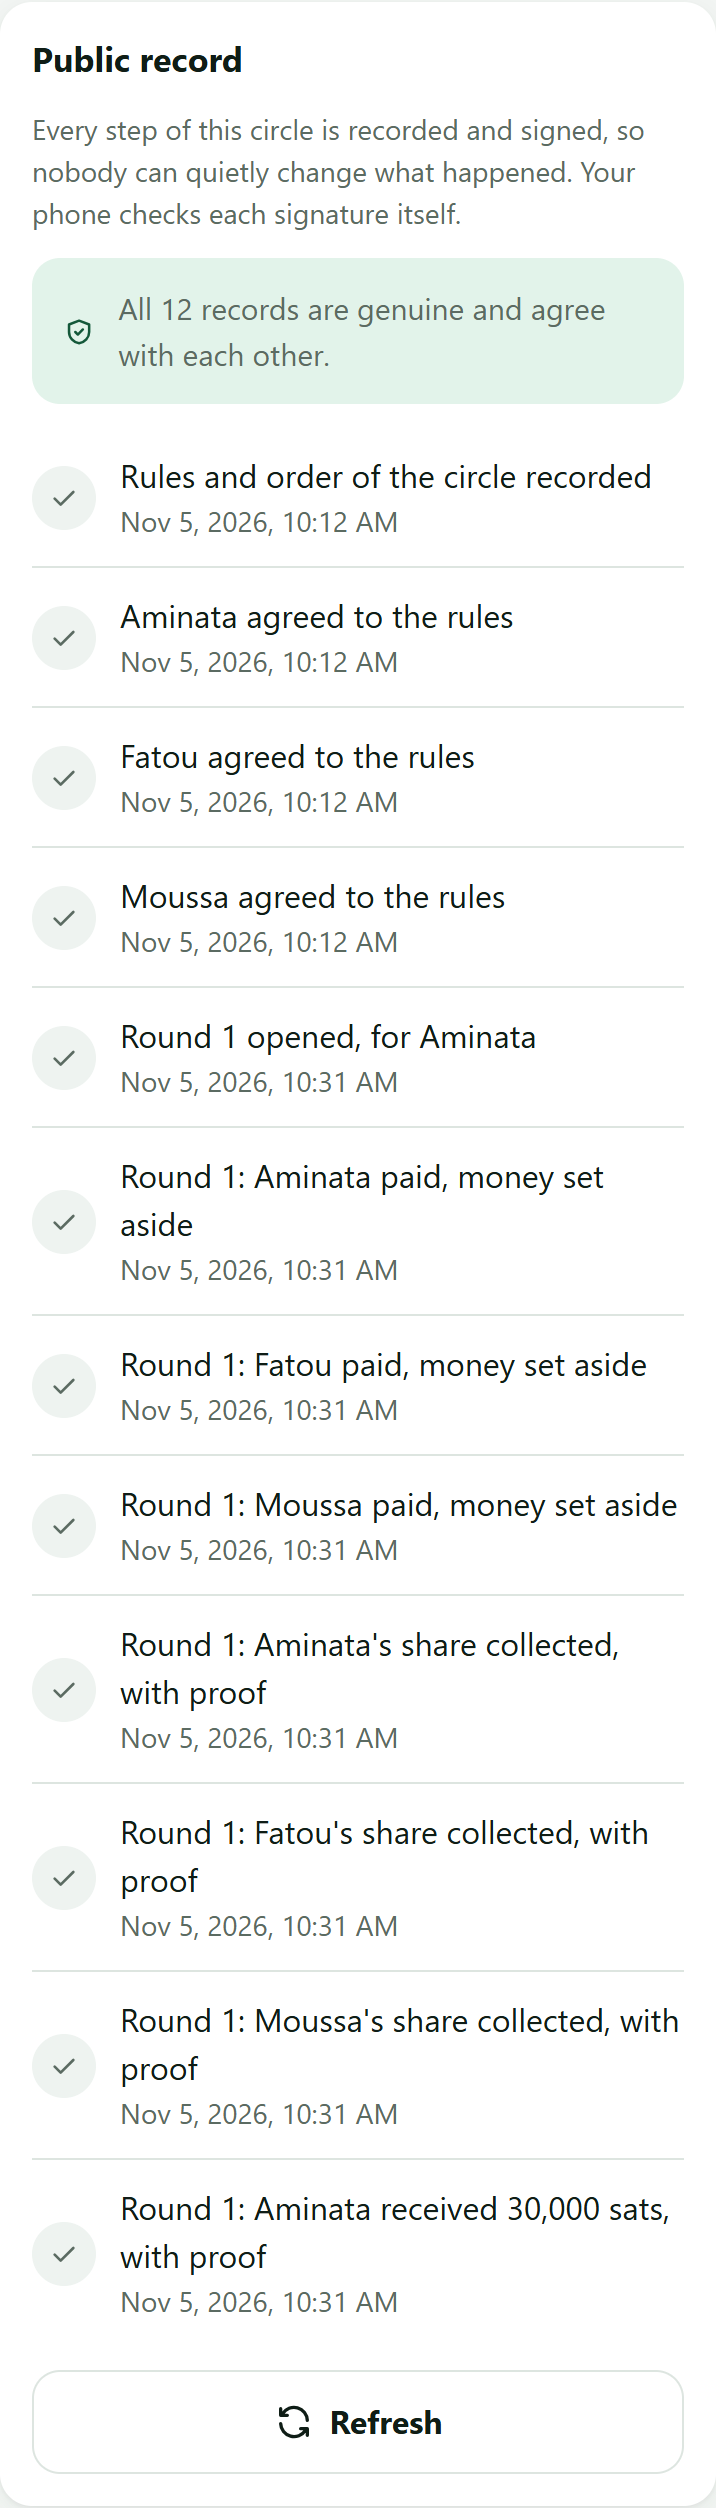
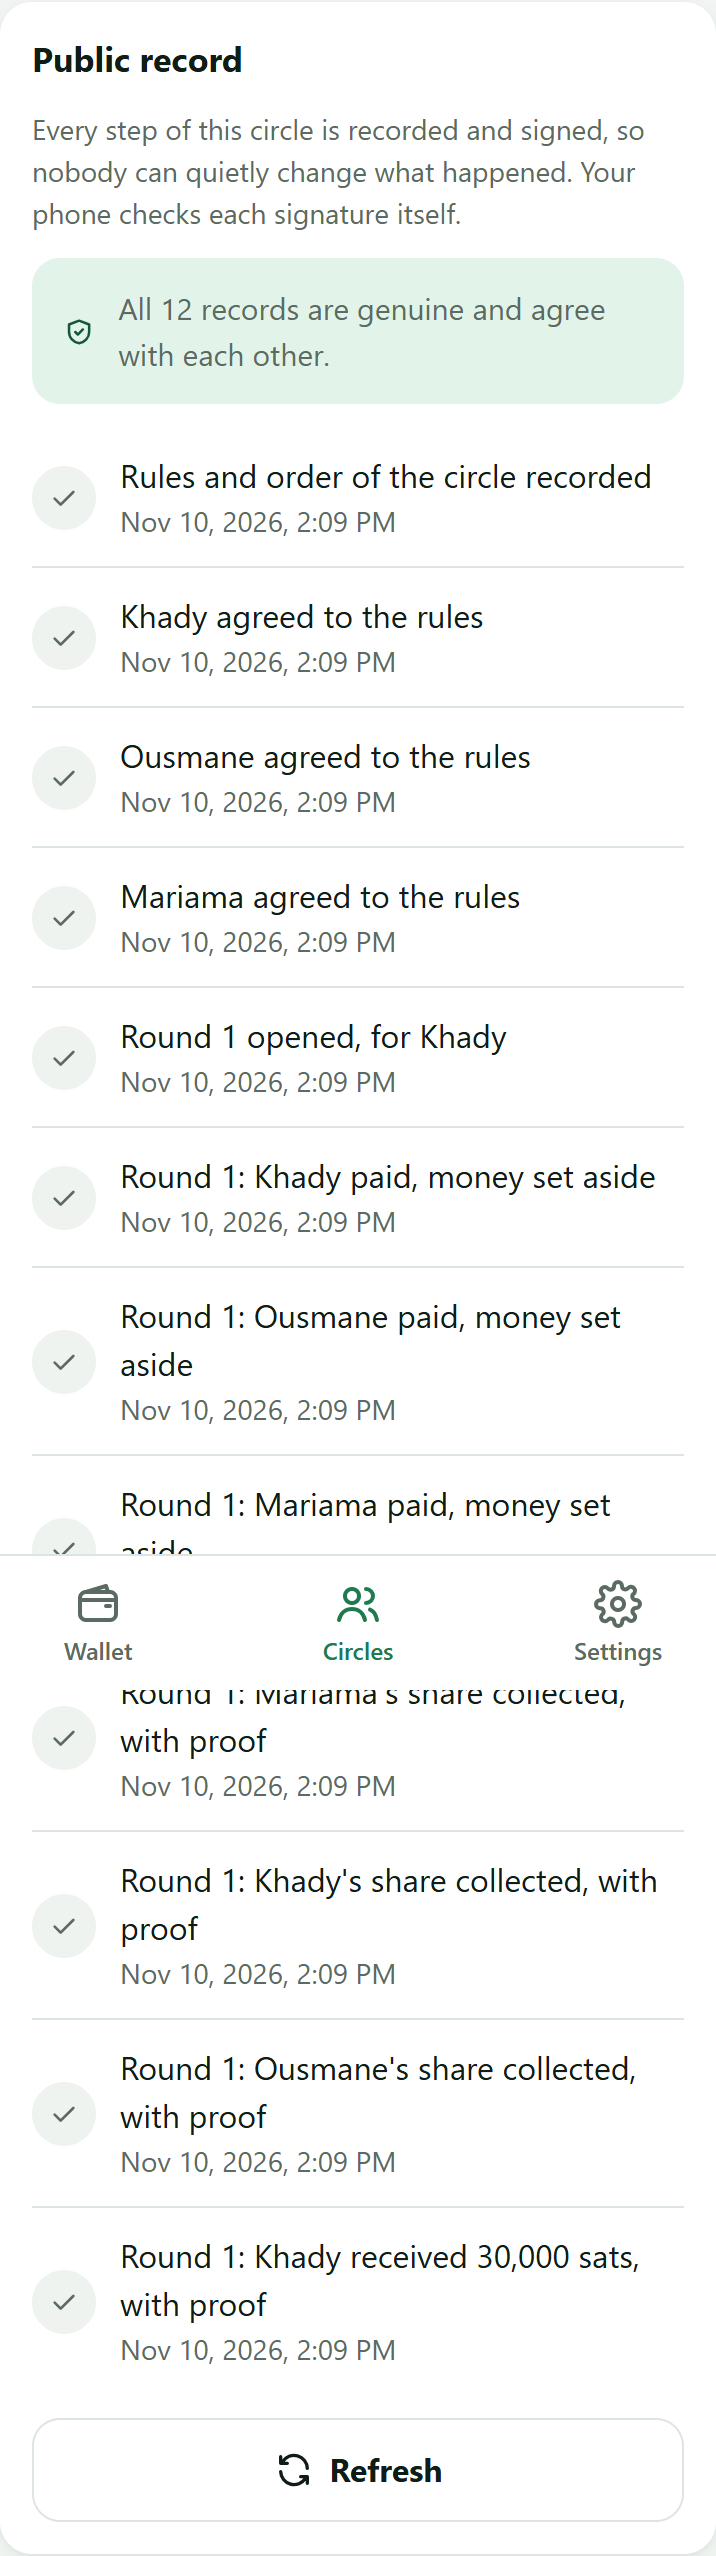
docs: rename demo people to Khady, Ousmane and Mariama at Sandaga market; add video script
Avoids overlapping with names used by other projects in the gallery.
Screenshots retaken with the new names and FCFA amounts.

diff --git a/scripts/demo.ts b/scripts/demo.ts
@@ -1,5 +1,5 @@
 /**
- * Demo state: three members (Aminata, Fatou, Moussa) with funded regtest
+ * Demo state: three members (Khady, Ousmane, Mariama) with funded regtest
  * wallets in an active circle, round 1 ready to start. Writes each member's
  * backup code (PIN 123456) to data/demo/ so demo phones can "Restore from a backup".
  *
@@ -24,7 +24,7 @@ import { WalletBindings } from "../apps/api/src/wallet/bindings.js";
 
 const DEMO_PIN = "123456";
 const JOIN_CODE = "DAKAR2";
-const MEMBERS = ["Aminata", "Fatou", "Moussa"] as const;
+const MEMBERS = ["Khady", "Ousmane", "Mariama"] as const;
 const CONTRIBUTION_SAT = 10_000;
 
 export async function createDemo(): Promise<void> {
@@ -61,7 +61,7 @@ export async function createDemo(): Promise<void> {
 
     store.createCircle({
       id: circleId,
-      name: "Marché HLM tontine",
+      name: "Sandaga market tontine",
       contributionSat: CONTRIBUTION_SAT,
       memberCount: MEMBERS.length,
       periodSeconds: 7 * 24 * 3600,
@@ -111,9 +111,9 @@ export async function createDemo(): Promise<void> {
 
     writeFileSync(
       join(demoDir, "README.txt"),
-      `Kola demo identities (regtest only). On each phone: "I already have a backup",\npaste one code, PIN ${DEMO_PIN}. Aminata is the organizer.\n`,
+      `Kola demo identities (regtest only). On each phone: "I already have a backup",\npaste one code, PIN ${DEMO_PIN}. Khady is the organizer.\n`,
     );
-    console.log(`Demo circle "Marché HLM tontine" (code ${JOIN_CODE}) is ready; round 1 can start.`);
+    console.log(`Demo circle "Sandaga market tontine" (code ${JOIN_CODE}) is ready; round 1 can start.`);
     printBackups(demoDir);
   } finally {
     db.close();

diff --git a/scripts/start.ts b/scripts/start.ts
@@ -92,9 +92,9 @@ console.log(`
   Kola is starting. Open:
 ${urls.map((u) => `    ${u}`).join("\n")}
 
-  Try it: tap "Aminata" on the welcome screen (demo PIN 123456),
-  open the Marché HLM circle and tap "Start round 1".
-  Switch to Fatou and Moussa in Settings to pay their shares.
+  Try it: tap "Khady" on the welcome screen (demo PIN 123456),
+  open the Sandaga market circle and tap "Start round 1".
+  Switch to Ousmane and Mariama in Settings to pay their shares.
 
   Ctrl+C stops the app. Before shutting down your computer,
   run "pnpm stack:stop" to stop the test network cleanly.

diff --git a/apps/api/src/routes/demo.ts b/apps/api/src/routes/demo.ts
@@ -5,9 +5,9 @@ import type { Env } from "../env.js";
 
 /** Same people, order and files as scripts/demo.ts. */
 const DEMO_PEOPLE = [
-  { nickname: "Aminata", role: "organizer" },
-  { nickname: "Fatou", role: "member" },
-  { nickname: "Moussa", role: "member" },
+  { nickname: "Khady", role: "organizer" },
+  { nickname: "Ousmane", role: "member" },
+  { nickname: "Mariama", role: "member" },
 ] as const;
 
 /**

diff --git a/docs/video-script.md b/docs/video-script.md
@@ -1,0 +1,110 @@
+# Kola · 3-minute demo video script
+
+Structure the judges asked for: **problem → solution → impact → next steps**.
+About 420 spoken words at a calm pace. Timings are targets; the demo parts can be sped up 1.5× in editing.
+
+---
+
+## Before you record (10 minutes)
+
+1. **Fresh demo state.** Stop the app, then run `pnpm demo:reset` so the circle is at round 1.
+2. **Short deadline for the refund scene.** In `.env`, set `CONTRIBUTION_WINDOW_SECONDS=30` (the minimum), then `pnpm start`. Set it back to `120` afterwards.
+3. **Phone-shaped screen.** Either record your real phone (`pnpm start:lan`, then the phone's built-in screen recorder), or use the laptop: Chrome, F12, `Ctrl+Shift+M`, pick a phone size, zoom to 100%.
+4. **Clean screen.** Close other tabs, turn on Do Not Disturb, hide the bookmarks bar.
+5. **Record in pieces.** Record each scene separately and join them. The refund scene especially: record it on its own and cut the waiting.
+6. **Have open in other tabs:** the README architecture diagram on GitHub, and the circle's **Record** panel.
+
+Tools: OBS Studio (free) or the Xbox Game Bar (`Win+G`) for screen capture, and any editor (CapCut, Clipchamp) to cut and add captions.
+
+---
+
+## Scene 1 · The problem (0:00 – 0:25)
+
+**Screen:** a title card on a dark green background: *"Kola · savings circles on Lightning"*. Then 2–3 simple text cards (or market photos you have rights to): *"Tontine · Ajo · Esusu · Susu"*, *"Millions save this way"*, *"…and it runs on trust."*
+
+**Say:**
+> In Dakar, Lagos and Accra, millions of people save through rotating savings circles: tontine, ajo, esusu. Everyone pays every week, and each week one person takes the pot.
+> But it runs on trust. The collector holds the cash and can disappear. Nobody can prove who paid. And chasing late payers is awkward.
+
+---
+
+## Scene 2 · The idea (0:25 – 0:40)
+
+**Screen:** Kola welcome screen (benefit cards visible).
+
+**Say:**
+> Kola runs your circle on Bitcoin's Lightning network. Your share is set aside, not handed over. Either everyone pays and the pot goes straight to that week's member, or everyone gets their money back automatically. Nobody ever holds the pot.
+
+---
+
+## Scene 3 · A real round (0:40 – 1:35)
+
+**Screen and actions:**
+1. Tap **Khady**. The wallet appears; hold 1 second on the balance card.
+2. **Circles → Sandaga market tontine.** Show the green card: 30,000 sats pot, Khady receives round 1.
+3. Tap **Start round 1**, then **Pay my share**. The "set aside" message appears.
+4. **Settings → Switch demo person → Ousmane**, open the circle, **Pay my share**. Pause on the card: **2 of 3 paid**, countdown running, Mariama **Not paid yet**.
+5. **Settings → Mariama → Pay my share.** The round completes immediately: **"Khady received 30,000 sats."**
+
+**Say** (over the actions):
+> Here's Khady's circle: three traders, ten thousand sats each.
+> Khady starts the round and pays her share. It's held, not collected. She can see it, but nobody can spend it.
+> Ousmane pays. Two of three, and the clock is running.
+> Mariama pays last. The moment everyone has paid, Kola collects all three shares and sends the thirty thousand sats pot straight to Khady. It takes seconds.
+
+---
+
+## Scene 4 · Someone doesn't pay (1:35 – 2:00)
+
+*(Recorded separately, with the 30-second deadline. Cut the waiting.)*
+
+**Screen and actions:**
+1. As Khady: **Start round 2**. Khady and Ousmane pay; Mariama doesn't.
+2. Countdown reaches zero (cut most of it): the card shows **Refunded** for everyone.
+3. Ousmane's **Wallet → Recent activity**: his payment shows as returned.
+
+**Say:**
+> Now Mariama doesn't pay in time. Nobody has to chase her. When the deadline passes, Kola cancels the round and every share goes back automatically. Ousmane's money is back in his wallet. Nobody lost anything.
+
+---
+
+## Scene 5 · Trust you can check (2:00 – 2:25)
+
+**Screen and actions:**
+1. In the circle, tap **Record**: *"All records are genuine and agree with each other"* and the list of steps.
+2. Tap **Ask → Who still has to pay?**, then **Draft a reminder** and **Copy**.
+3. Switch **EN → FR** in the top bar for 2 seconds.
+
+**Say:**
+> Every step is signed and published to a public record on Nostr. Each member's phone checks the signatures and payment proofs itself, so nobody can quietly rewrite who paid.
+> A built-in assistant answers "who still owes?" and drafts a polite reminder, in English or French.
+
+---
+
+## Scene 6 · Built safely (2:25 – 2:40)
+
+**Screen:** the README architecture diagram on GitHub (scroll slowly), then the "Security by design" section.
+
+**Say:**
+> Under the hood: each member's key is created and encrypted on their own phone. There are no passwords. The server's Lightning keys can only do one job each, every input is checked, and the AI can only read, never move money. The threat model is in the repo.
+
+---
+
+## Scene 7 · Impact and next steps (2:40 – 3:00)
+
+**Screen:** a simple card: *"1 circle · 10 members · 520 payments a year"*, *"1 market · 50 circles · 26,000 payments a year"*. Then the repo link: **github.com/lsgnjms/kola**.
+
+**Say:**
+> One circle of ten makes 520 payments a year. One market with fifty circles makes twenty-six thousand, on phones people already own.
+> Next: members bring their own wallets, a pilot with a real group in Dakar or Lagos, and voice in Wolof and Yoruba.
+> Kola: save together, safely. It's open source. Try it in one command.
+
+---
+
+## Checklist after recording
+
+- [ ] Under 3:00 total.
+- [ ] Captions on (judges often watch muted), English, optionally French.
+- [ ] "Test network, not real money" is visible at least once (the wallet card's label covers it).
+- [ ] Set `CONTRIBUTION_WINDOW_SECONDS` back to `120` and run `pnpm demo:reset`.
+- [ ] Upload (YouTube unlisted or Vimeo) and paste the link into Devpost and the README.

diff --git a/plan.md b/plan.md
@@ -25,7 +25,7 @@ A mobile-first PWA where a group runs a savings circle over Lightning:
 4. **AI assistant**: plain-language reminders and Q&A ("When is my turn?", "Who hasn't paid?"). It only reads circle state and can never move money. Stretch: voice notes in Wolof / Yoruba / Pidgin.
 
 ### Primary user
-**Aminata, 34, fabric seller at Marché HLM in Dakar.** Mid-range Android, patchy 3G, runs a 10-person tontine with fellow traders. She wants to stop carrying cash and stop arguing about who paid.
+**Khady, 34, fabric seller at Sandaga market in Dakar.** Mid-range Android, patchy 3G, runs a 10-person tontine with fellow traders. She wants to stop carrying cash and stop arguing about who paid.
 
 ### Reach estimate (for the pitch)
 One circle = ~10 members × 52 weekly contributions = 520 payments/year. A single market with 50 circles ≈ 26,000 payments/year. Track: circles created, on-time payment rate, payout success rate, disputes raised.
@@ -150,7 +150,7 @@ No names, phone numbers or amounts in fiat on the relay. Display names stay loca
 Build in public throughout: short progress posts (X / Nostr) and updates in the BTrust Discord, since organizers asked for it.
 
 ## 9. Demo script (3 minutes)
-1. **Problem (30s):** Aminata's tontine, the collector who vanished, the notebook.
+1. **Problem (30s):** Khady's tontine, the collector who vanished, the notebook.
 2. **Solution (90s):**
    - Create a 3-person circle, others join via link.
    - Cycle 1: all three pay → pot lands in Alice's wallet instantly → show the Nostr audit trail.
